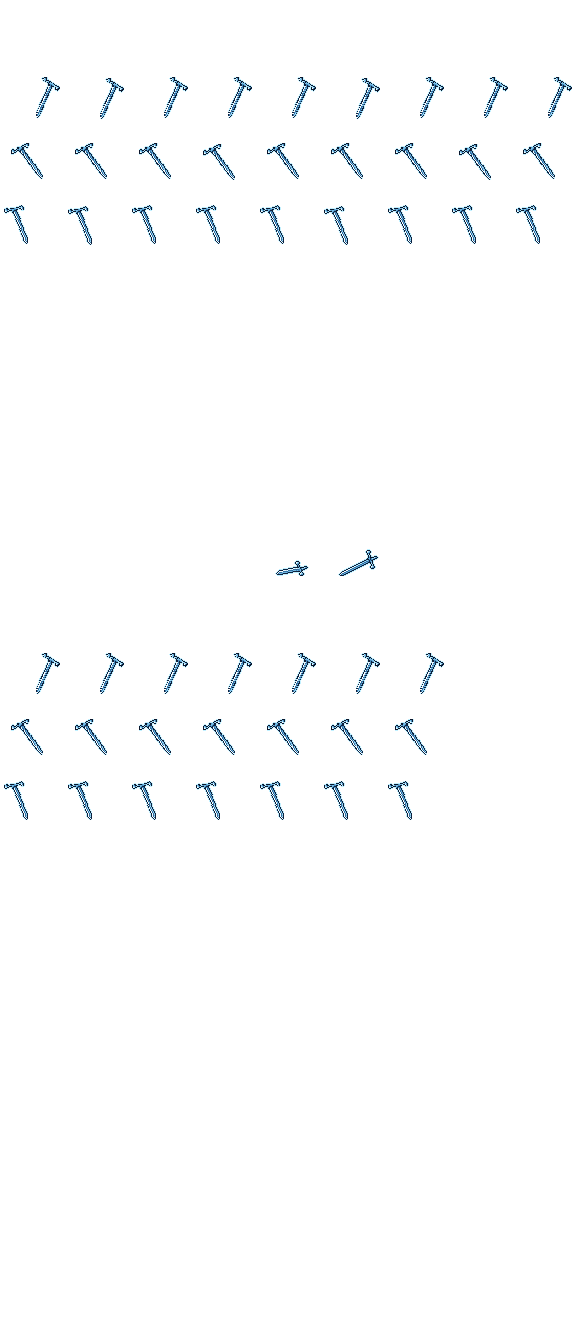
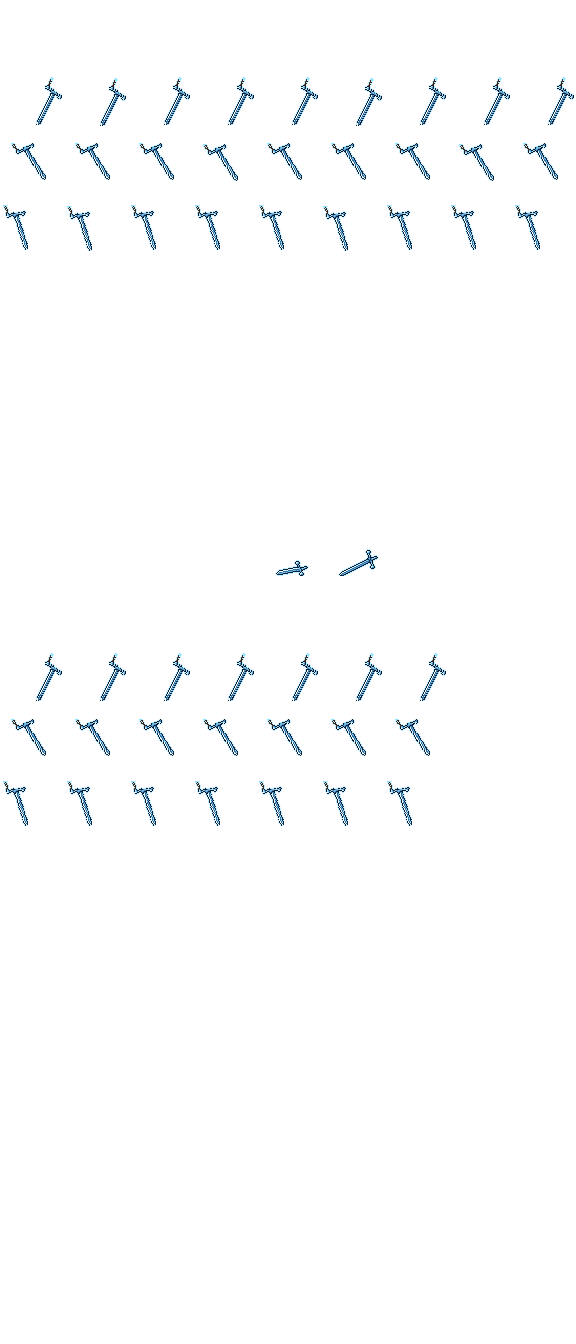
Carried greatsword: draw the missing grip + pommel (held sprites hide it under the hand), keep hilt-up orientation
Claude-Session: https://claude.ai/code/session_01RVFgCBNzd2DQowAD8LfVDX

diff --git a/tools/gear/carry.py b/tools/gear/carry.py
@@ -42,6 +42,33 @@ def weapon_src(iid, front, back):
     arr = np.array(best[1]); arr[arr[..., 3] < 200] = 0
     im = Image.fromarray(arr); return im.crop(im.getbbox())
 
+def add_grip(src, ang, L, gc=None):
+    """เติมด้ามจับ + ปุ่มท้ายต่อจากกระบัง (ภาพถือดาบเดิมไม่มีด้าม เพราะมือบังไว้)"""
+    pad = 12
+    big = Image.new("RGBA", (src.width + pad * 2, src.height + pad * 2)); big.alpha_composite(src, (pad, pad))
+    arr = np.array(big); m = arr[..., 3] >= 200
+    ys, xs = np.nonzero(m)
+    d = np.array([math.cos(math.radians(ang)), math.sin(math.radians(ang))])   # ชี้จากปลายแคบ → ปลายกว้าง (กระบัง)
+    proj = np.stack([xs, ys], 1) @ d
+    tip_i = proj.argmax()
+    # จุดกระบังด้านนอกสุด: เฉลี่ยพิกเซลที่อยู่ปลายสุดฝั่งกว้าง
+    sel = proj > proj.max() - 1.5
+    gx, gy = xs[sel].mean(), ys[sel].mean()
+    nrm = np.array([-d[1], d[0]])
+    grip, gripd = (92, 58, 38), (58, 36, 24)
+    pom = tuple(int(gc[i:i + 2], 16) for i in (1, 3, 5)) if gc else (210, 175, 80)
+    for k in range(1, 8):                     # ด้ามยาว 7 px กว้าง 2 px ลายพัน
+        for w, col in ((-0.5, grip if k % 2 else gripd), (0.5, gripd)):
+            x, y = gx + d[0] * k + nrm[0] * w, gy + d[1] * k + nrm[1] * w
+            xi, yi = int(round(x)), int(round(y))
+            if 0 <= yi < arr.shape[0] and 0 <= xi < arr.shape[1]: arr[yi, xi] = list(col) + [255]
+    for w in (-1, 0, 1):                      # ปุ่มท้าย
+        for k in (8, 9):
+            x, y = gx + d[0] * k + nrm[0] * w * 0.8, gy + d[1] * k + nrm[1] * w * 0.8
+            xi, yi = int(round(x)), int(round(y))
+            if 0 <= yi < arr.shape[0] and 0 <= xi < arr.shape[1]: arr[yi, xi] = list(pom) + [255]
+    out = Image.fromarray(arr); return out.crop(out.getbbox())
+
 def render(src, ang, tilt):
     """หมุนครั้งเดียว: ปลายกว้าง (ด้าม/หัวง้าว) ชี้ขึ้น แล้วเอียง tilt องศา (บวก = ปลายบนเอนไปขวา)"""
     # ต้องการให้แกน (แคบ→กว้าง) ชี้ขึ้น = -90° แล้วเอียง tilt → มุมเป้าหมาย = -90 + tilt
@@ -62,6 +89,10 @@ def carry(iid):
     src = weapon_src(iid, front, back)
     ang, L = axis_info(src)
     if L > 46: src = src.resize((max(1, round(src.width * 46 / L)), max(1, round(src.height * 46 / L))), Image.NEAREST); ang, L = axis_info(src)
+    if ITEMS[iid].get("base", iid) == "greatsword" or iid == "greatsword":   # ดาบ (ไม่ใช่ง้าว) → เติมด้ามจับ
+        src = add_grip(src, ang, L, ITEMS[iid].get("glowColor"))
+        prev = ang; ang, L = axis_info(src)
+        if math.cos(math.radians(ang - prev)) < 0: ang += 180   # คงทิศเดิม: ด้าม/กระบังชี้ขึ้น
     diag_dn, diag_mir = render(src, ang, 38), render(src, ang, -38)
     steep, steep_mir = render(src, ang, 22), render(src, ang, -22)
     gc = ITEMS[iid].get("glowColor")
